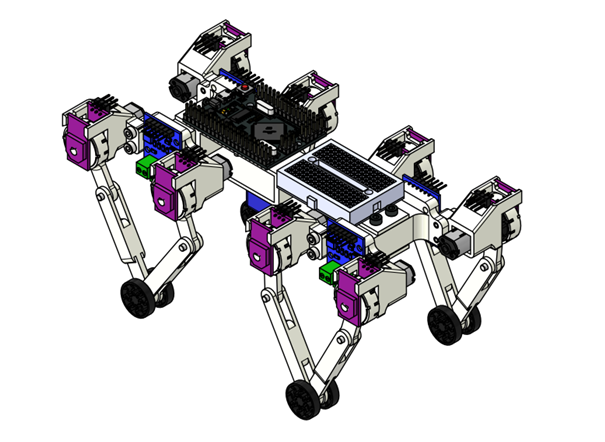
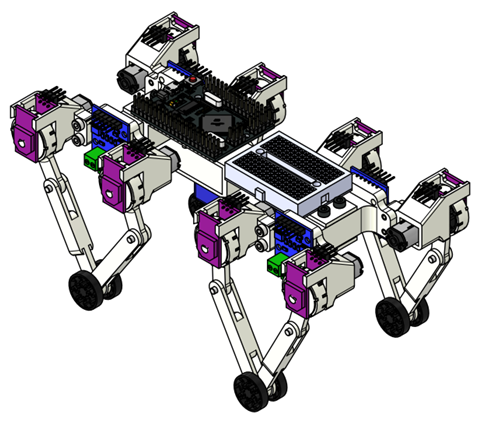
image re-upload

diff --git a/_pages/portfolio.md b/_pages/portfolio.md
@@ -15,7 +15,7 @@ I made a 3d printed housing for a N20 type dc motor and joint it with an angle s
 
 Then, i added a torsion spring at the shaft and another sensor at the ouput to measure the deformation. With this, the actuator gains compliancy and torque sensing. This is not updated yet in the repository.
 
-<img src="/images/seact.png" width="300">
+<img src="/images/seact.png" width="500">
 
 Using 2 of these N20 Servo modules i made a jumping robot. [Link](https://github.com/jkugalde/Jumping-robot) to the github repository.
 
@@ -23,7 +23,7 @@ Using 2 of these N20 Servo modules i made a jumping robot. [Link](https://github
 
 Naturally, i had to make a tetrapod using 4 of these leg modules equiped with the latest N20 servo design. I present to you, [Pochitabot](https://github.com/jkugalde/Pochitabot)
 
-<img src="/images/po.png" width="300">
+<img src="/images/po.png" width="500">
 
 Probably the name will change in the future, as if it is matter of publication, the name must reflect the main characteristics, like Cheap Compliant Modular Printed robot, or something like that. The price of this robot is currently below 150 dollars.
 
